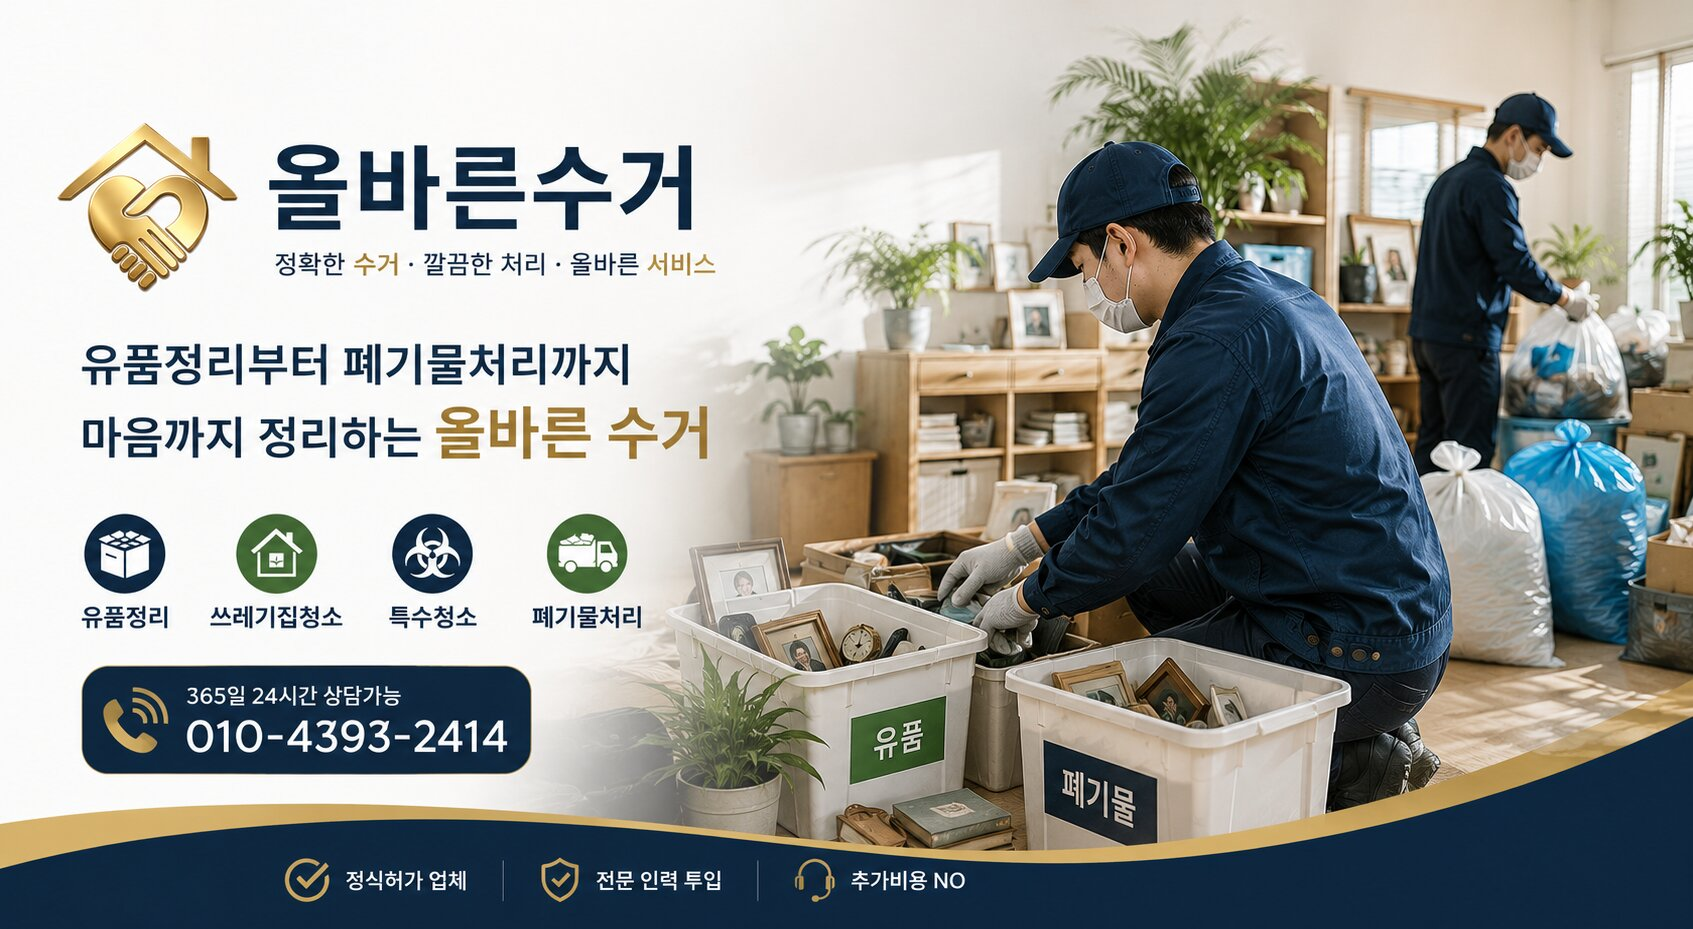
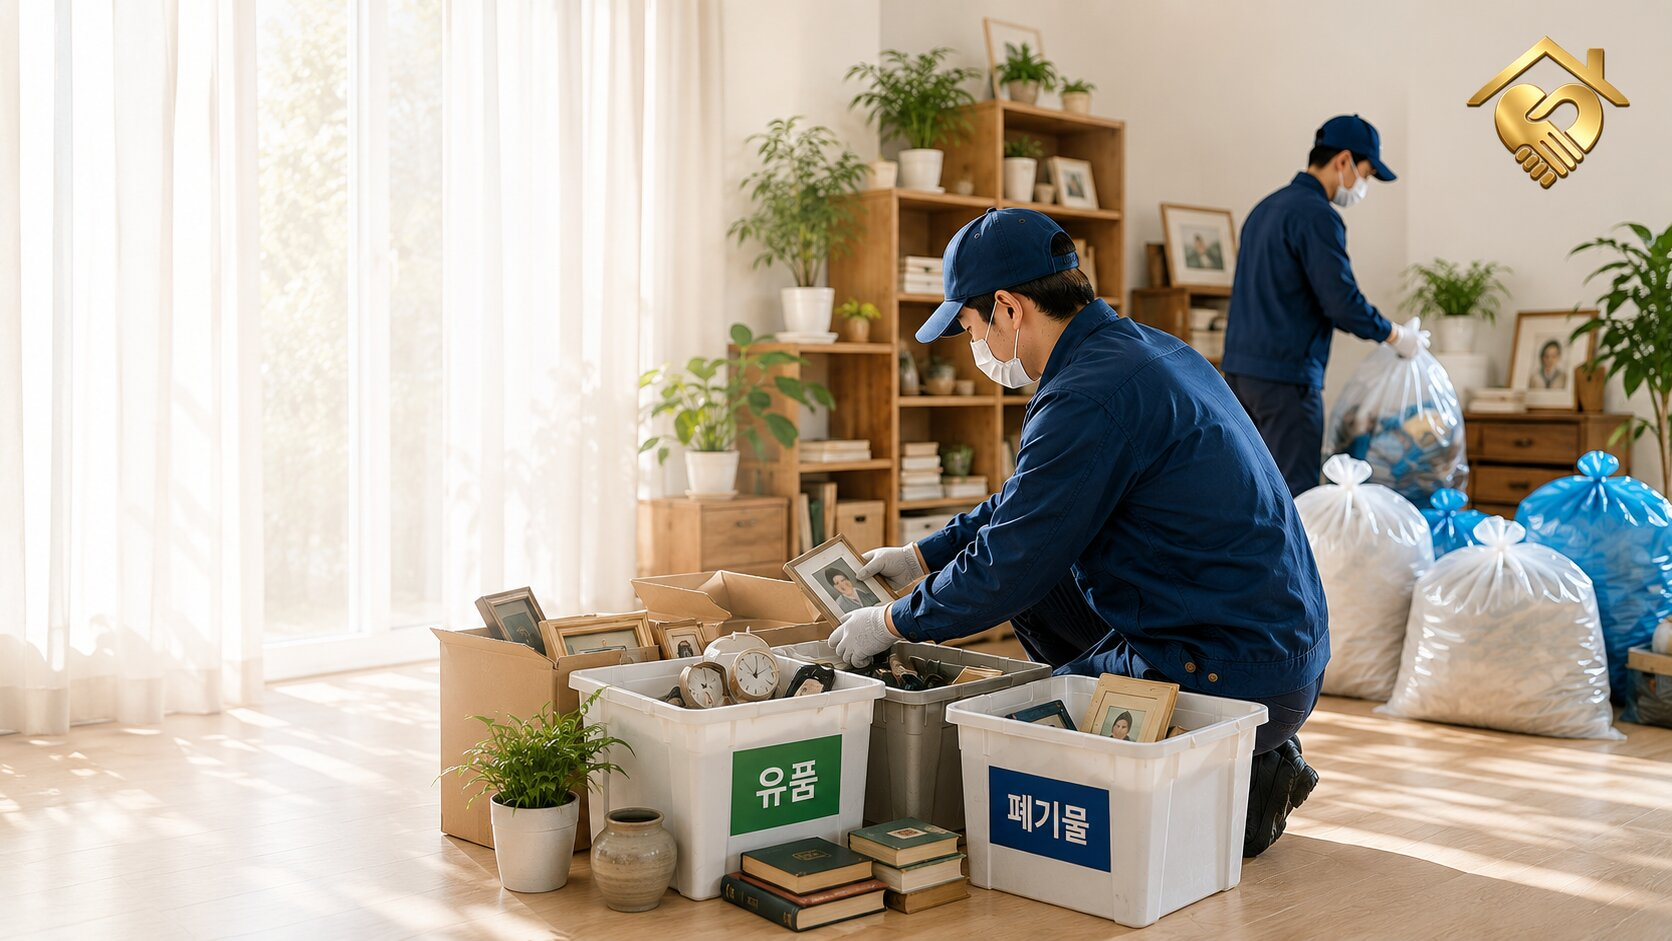
Add Naver verification and update hero image to match Seongnam site.

diff --git a/navera4d64b68a1c88bbfd505cd9497ef504c.html b/navera4d64b68a1c88bbfd505cd9497ef504c.html
@@ -1,0 +1,1 @@
+naver-site-verification: navera4d64b68a1c88bbfd505cd9497ef504c.html